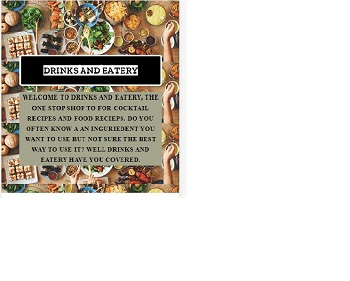
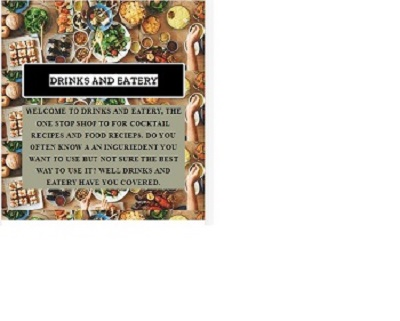
commit additions to style, resized images

Changed region(s): [[0.0, 0.0, 0.5143, 0.7117]]

diff --git a/index.html b/index.html
@@ -6,8 +6,12 @@
     <meta http-equiv="X-UA-Compatible" content="IE=edge">
     <meta name="viewport" content="width=device-width, initial-scale=1.0">
     <title>Ariell Sctt | Coding Bootcamp Student</title>
+    <link rel="preconnect" href="https://fonts.googleapis.com">
+    <link rel="preconnect" href="https://fonts.gstatic.com" crossorigin>
+    <link href="https://fonts.googleapis.com/css2?family=Montserrat&family=Roboto+Slab:wght@900&display=swap"
+        rel="stylesheet">
     <link rel="stylesheet" type="text/css" href="./assets/css/style.css" />
-    <link rel="stylesheet" type="text/css" href="./assets/css/reset.css" />
+
 </head>
 
 <body>
@@ -31,26 +35,26 @@
     <main>
         <div class="myWork">
             <ul>
-             <li>
-                 <img src="./assets/images/p1.jpg">
-                 <a href="https://asantercureton.github.io/drink-and-eatery-app/">Project 1</a>
-            </li>
-             <li>
-                 <img src="./assets/images/password-gen.PNG">
-
-                 <a href="https://https://as98250.github.io/Passwork-Generator/">HW1</a>
-            </li>
-             <li>
-                 <img src="./assets/images/code-quiz.PNG">
-                <a href="https://as98250.github.io/code-it-or-not/">HW2</a>
+                <li>
+                    <img src="./assets/images/p1.jpg">
+                    <a href="https://asantercureton.github.io/drink-and-eatery-app/">Drink and Eatery APp</a>
                 </li>
-             <li>
-                 <a href="./assets/pdf/ariell-scott-resume.pdf" download="ariell-scott-resume.pdf">Resume</a>
-            </li>
-             <li>
-                 <a href="https://linkedin.com/in/ariell-scott-bb3b2893">LinkedIn</a>
-            </li>
-                
+                <li>
+                    <img src="./assets/images/pass-gen.PNG">
+
+                    <a href="https://https://as98250.github.io/Passwork-Generator/">Password Generator</a>
+                </li>
+                <li>
+                    <img src="./assets/images/code-quiz.PNG">
+                    <a href="https://as98250.github.io/code-it-or-not/">Code It or Not: JavaScript coding quiz</a>
+                </li>
+                <li>
+                    <a href="./assets/pdf/ariell-scott-resume.pdf" download="ariell-scott-resume.pdf">Resume</a>
+                </li>
+                <li>
+                    <a href="https://linkedin.com/in/ariell-scott-bb3b2893">LinkedIn</a>
+                </li>
+
             </ul>
         </div>
         <article>
@@ -58,7 +62,7 @@
                 <img src="./assets/images/mexico1.jpg" class="subbox">
                 <div>
                     <h2>About Me</h2>
-                    <p>I am a 26 year old tech professionl. I have worked in insurance and finance with exposure to
+                    <p>I am a 26 year old tech professional. I have worked in insurance and finance with exposure to
                         tech througout my career. I am growing my coding skills to have better luck in the work force
                     </p>
                 </div>

diff --git a/assets/css/style.css b/assets/css/style.css
@@ -1,0 +1,26 @@
+* {
+    box-sizing: border-box;
+    padding: 0;
+    margin: 0;
+}
+  
+  body {
+    font-family: 'Roboto Slab', serif;
+    margin: 0;
+
+  }
+  
+  header {
+    padding: 60px;
+    text-align: center;
+    background-image: url('../images/galexy-again.jpg');
+    
+  }
+  h1 {
+      font-size: 50px;
+  }
+  
+  nav {
+    display: flex;
+    
+  }
